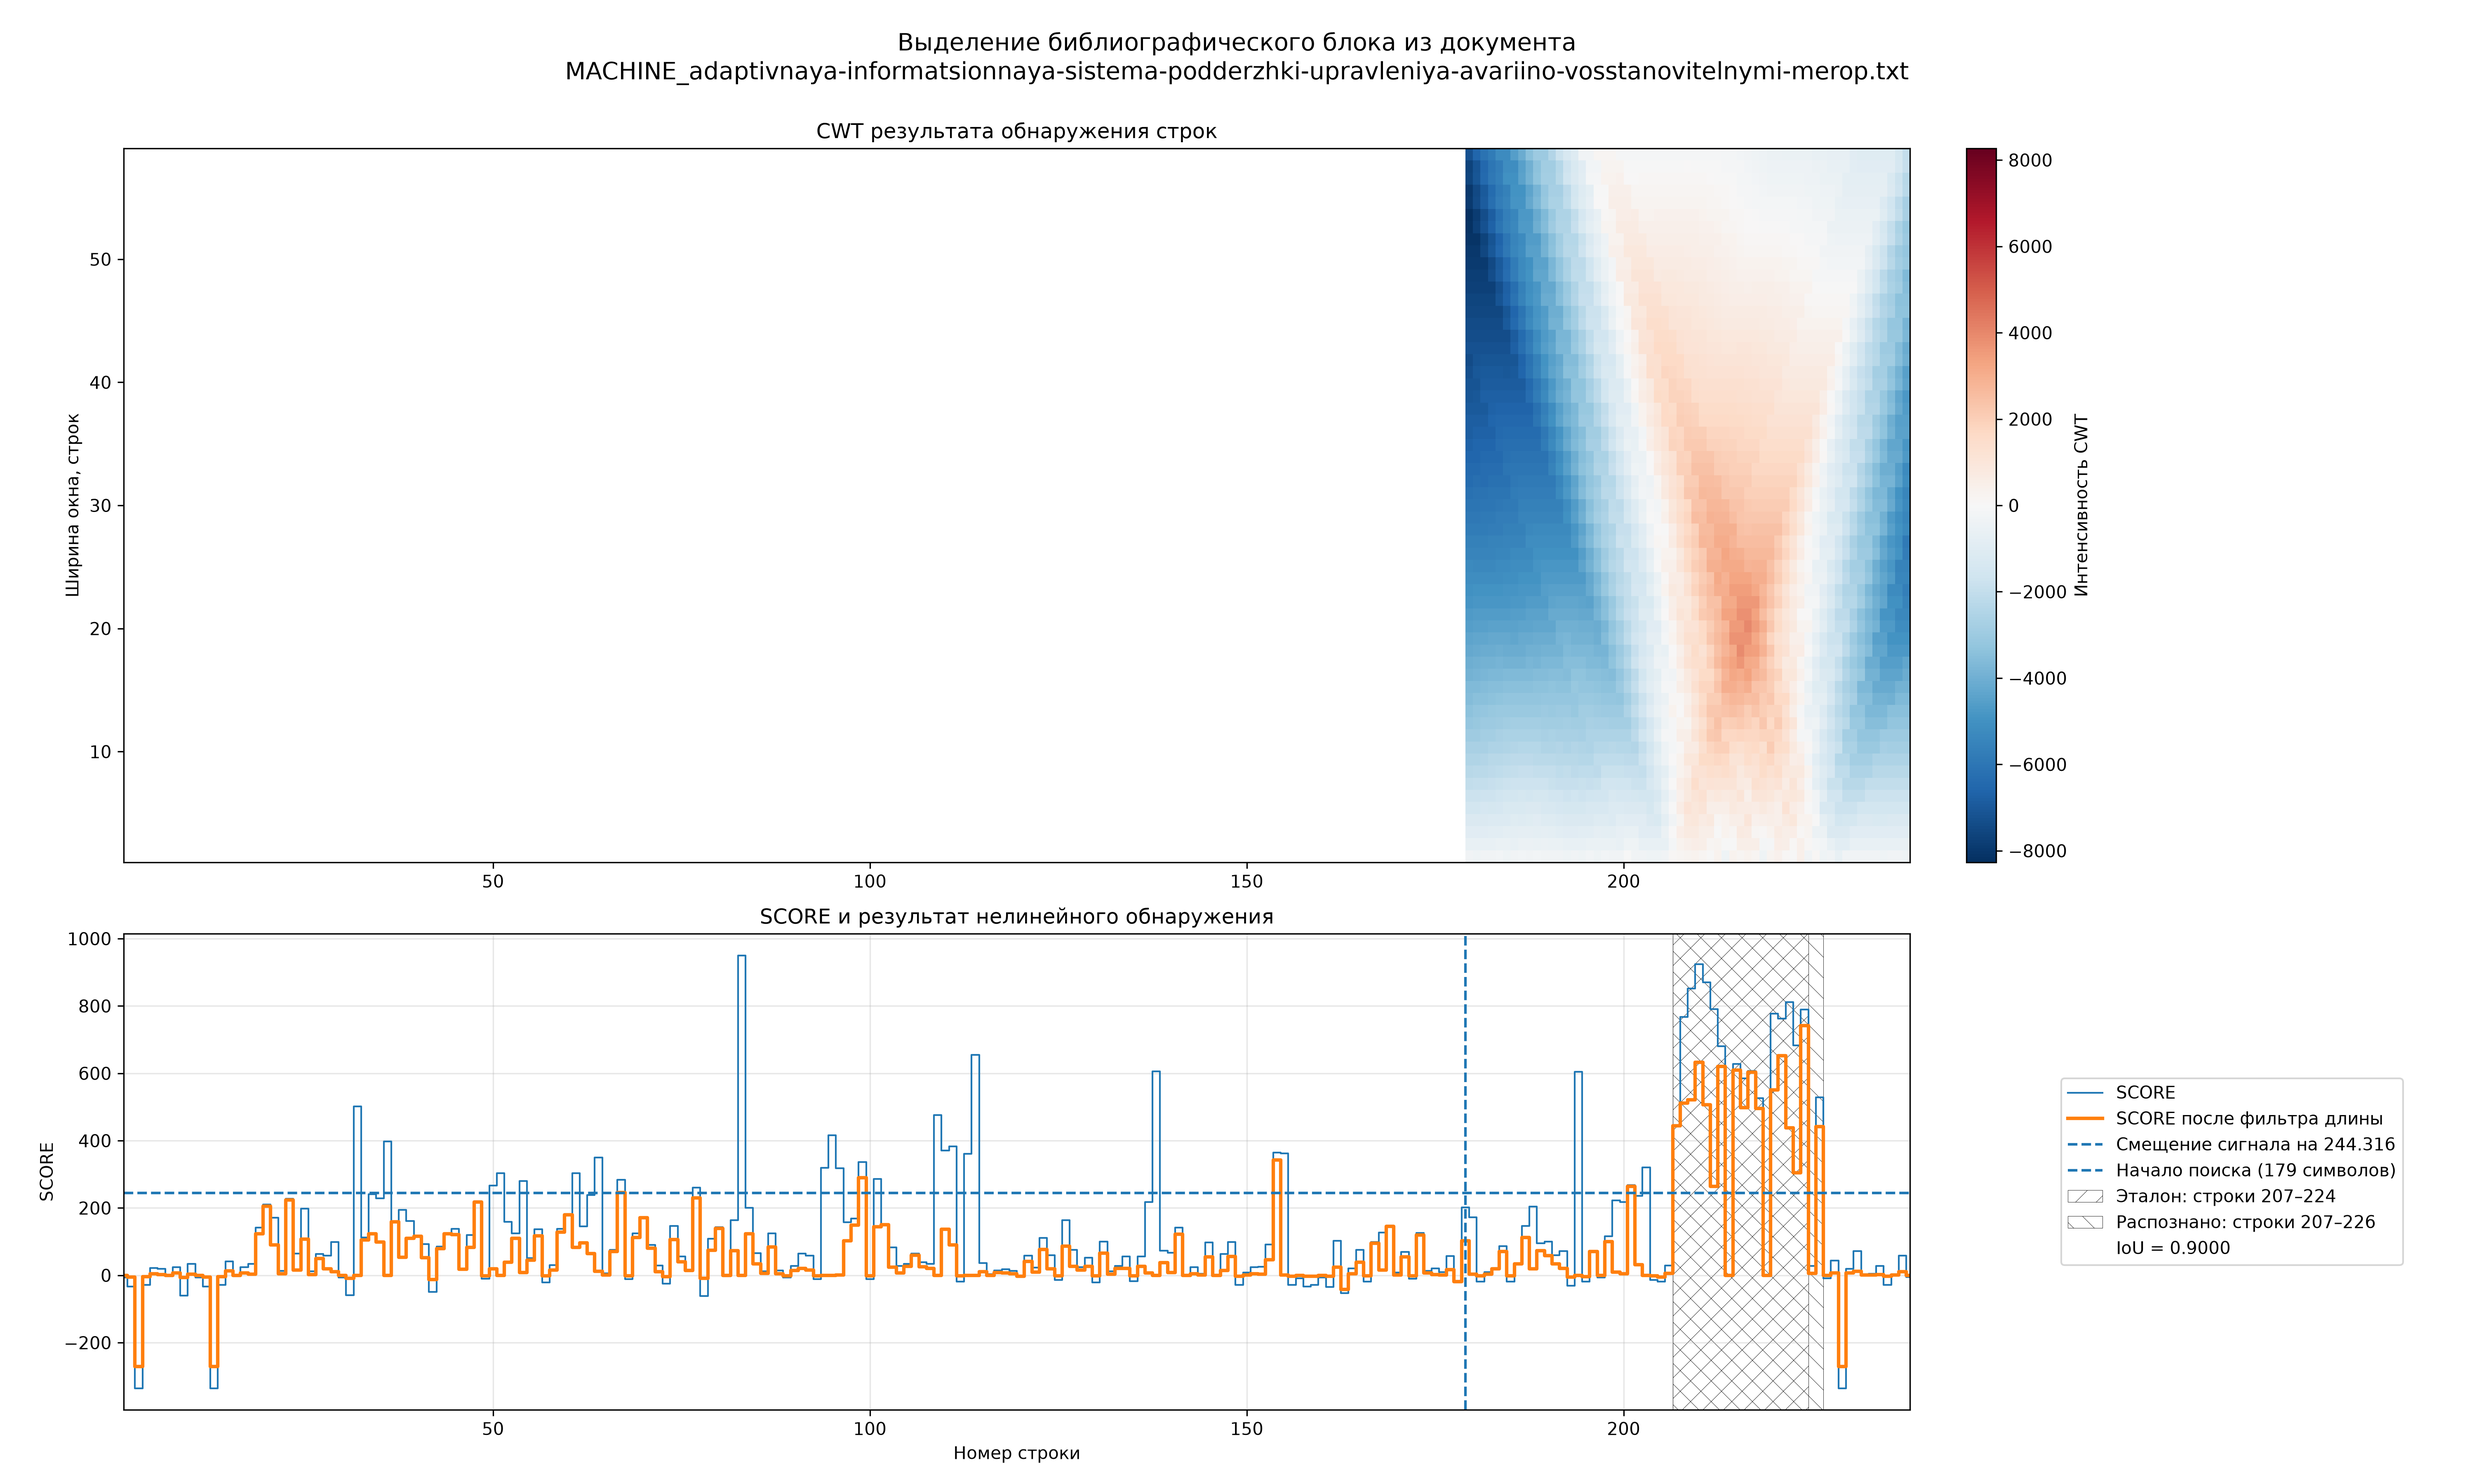
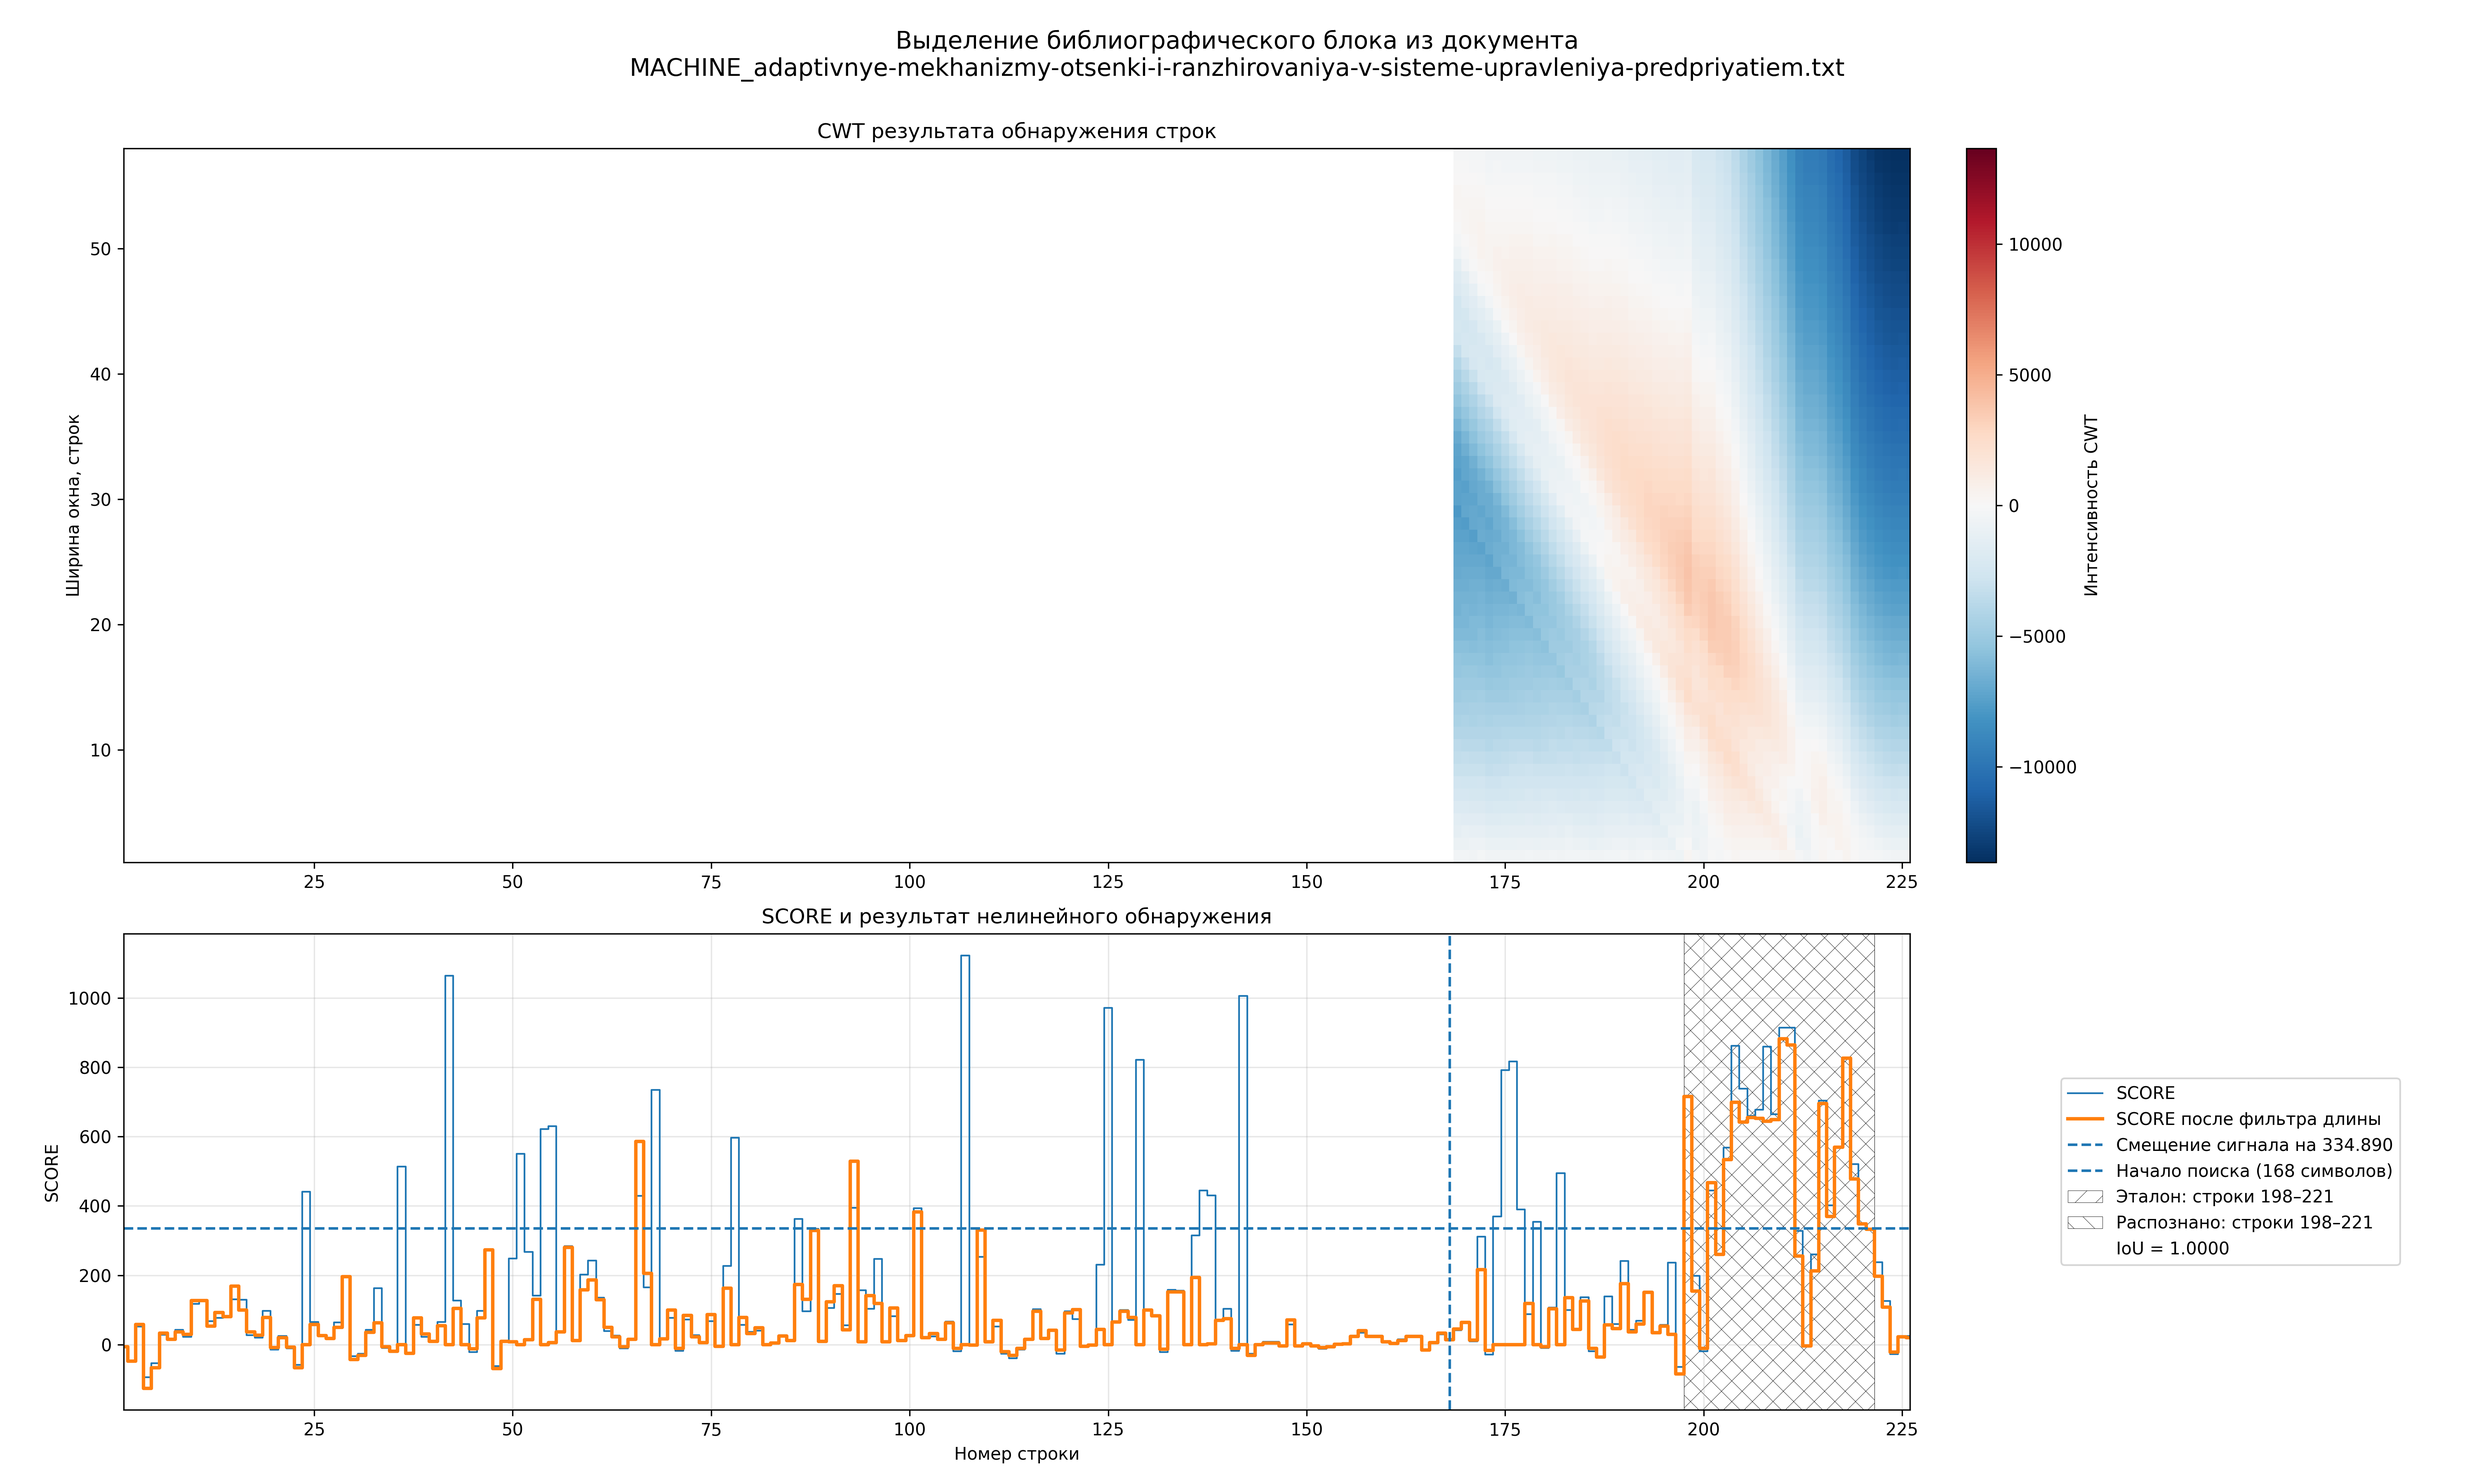
почти написал отчёт по первому заданию

diff --git a/README.md b/README.md
@@ -347,7 +347,8 @@
 
 БР считается непрерывным, несмотря на налииче записей, не являющихся библиографической ссылкой, таких как номера страницы и прочие комментарии, например\
 *А также другие работы автора*,\
-*ОСНОВНЫЕ ПУБЛИКАЦИИ ПО ТЕМЕ ДИССЕРТАЦИИ Статьи, опубликованные в изданиях, определенных ВАК РФ:*,\ *Статьи, материалы конференции*.
+*ОСНОВНЫЕ ПУБЛИКАЦИИ ПО ТЕМЕ ДИССЕРТАЦИИ Статьи, опубликованные в изданиях, определенных ВАК РФ:*,\
+*Статьи, материалы конференции*.
 
 Также необходимо выбрать функцию потерь для оптимизации. Предложенная в задании метрика ```Полнота обнаружения блоков``` к данной роли не годится, так как является кусочно-постоянной, то есть недифференцируемой. В каждом отдельном документе данная метрика может принимать всего два значения из множетства $\{0, 1\}$. В рамках обучения алгоритма метрика применяется к обучающей выборке, что составляет 80% от датасета, то есть 37 экземпляров. Таким образом на данном датасете разрешение такой функции потерь составляет всего $$R_L=1/38= 0.026$$
 Необходимо повысить разрешение функции потерь. Это можно сделать применением метрики Intersection Over Union (IoU)
@@ -473,7 +474,7 @@ $$searchStart = max(0, searchK \cdot lineNumber + searchB - 3 \cdot searchSTD)$$
 
 Однако одним из свойств вейвлеты является непрерывность спектра, из чего происходят две особенности: вейвлет-преобразование отлично выделяет пик, но плохо выделяет границы. 
 
-В данном случае сигнал является дискретным и квантованным в значительной степени, а амплитуда строк, являющихся ссылками отличается от амплитуда подавляющего большинства остальных на порядок. Таким обрзом, совокупности ссылок образует прямоугольный учаток, который следует детектировать... прямоугольным ядром. Ядро представляет собой массив единиц произвольной длины. Ядро характеризуется положением серидины (кек а что делать, если длина чётная) и длиной. На графике "CWT результата обнаружения строк" по оси абсцисса отложена координата серидины ядра, а по оси ордината - его длина. На самом графике цветовой градацией изображена интенсивность результата скалярного произведения ядра с заданными параметрами на сигнал.
+В данном случае сигнал является дискретным и квантованным в значительной степени, а амплитуда строк, являющихся ссылками отличается от амплитуда подавляющего большинства остальных на порядок. Таким обрзом, совокупности ссылок образует прямоугольный учаток, который следует детектировать... прямоугольным ядром. Ядро представляет собой массив единиц произвольной длины. Ядро характеризуется положением начала и длиной. На графике "CWT результата обнаружения строк" по оси абсцисса отложена координата начала ядра, а по оси ордината - его длина. На самом графике цветовой градацией изображена интенсивность результата скалярного произведения ядра с заданными параметрами на сигнал.
 
 Чтобы обеспечить предсказуемую работу преобразования на границах сигнала, сигнал дополняется нулями.
 
